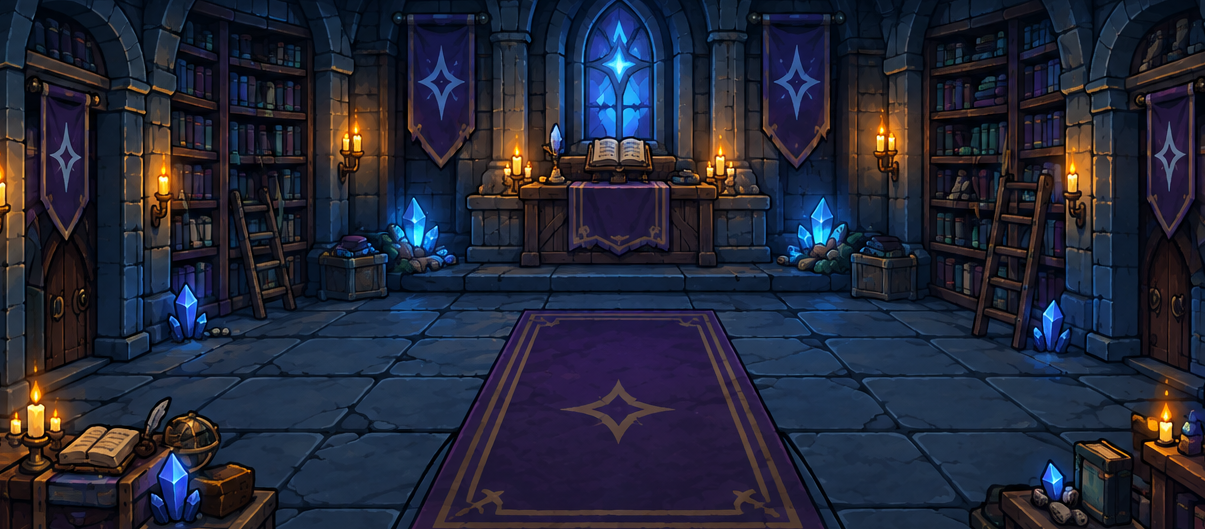
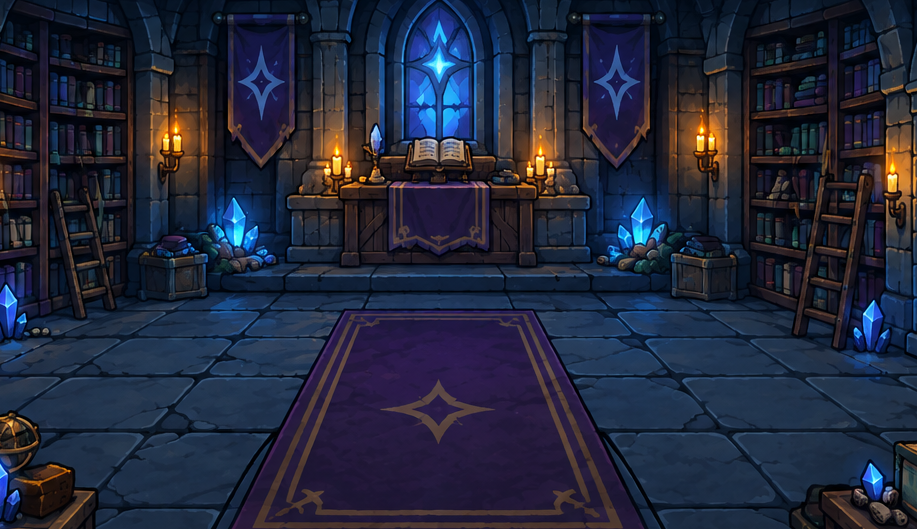
Implemented fifth dungeon changed a few cards powers started to balance the lower dungeons and starting sets

diff --git a/DungeonCrawler/enemies.py b/DungeonCrawler/enemies.py
@@ -94,48 +94,52 @@ class enemy:
 
 class Goblin(enemy):
     def __init__(self):
-        super().__init__("Goblin", "A small, green, mischievous creature.", 3, [Cards.Knife(), Cards.LightAxe(), Cards.Nothing()], "Orc's dungeon", 1)
+        super().__init__("Goblin", "A small, green, mischievous creature.", 3, [Cards.Nothing(), Cards.LightAxe(), Cards.Nothing()], "Orc's dungeon", 1)
 
 class Orc(enemy):
     def __init__(self):
-        super().__init__("Orc", "Grey mischievous creature.", 4, [Cards.Dagger(), Cards.ShoulderPlate(), Cards.LightAxe()], "Orc's dungeon", 2)
+        super().__init__("Orc", "Grey mischievous creature.", 4, [Cards.Nothing(), Cards.Helmet(), Cards.LightAxe()], "Orc's dungeon", 2)
 
 class ArmoredOrc(enemy):
     def __init__(self):
-        super().__init__("Armored Orc", "A grey orc with a chainmail.", 4, [Cards.Sword(), Cards.LightAxe(), Cards.ChainMail()], "Orc's dungeon", 3)
+        super().__init__("Armored Orc", "A grey orc with a chainmail.", 5, [Cards.Sword(), Cards.Knife(), Cards.ChainMail()], "Orc's dungeon", 3)
 
 class Ogre(enemy):
     def __init__(self):
         super().__init__("Ogre", "Huge green furry mischievous creature.", 6, [Cards.Club(), Cards.Nothing(), Cards.Nothing()], "Orc's dungeon", 4)
         self.lootTable = [Cards.Club(), Cards.Club(), Cards.Nothing()]
-        self.lootChance = 1
 
 
 class OrcWizard(enemy):
     def __init__(self):
-        super().__init__("Orc Wizard", "A powerful mystical creature.", 5, [Cards.Spear(), Cards.ChainMail(), Cards.MagicHat()], "Orc's dungeon", 5)
+        super().__init__("Orc Wizard", "A powerful mystical creature.", 8, [Cards.Spear(), Cards.ChainMail(), Cards.MagicHat()], "Orc's dungeon", 5)
         self.lootTable = [Cards.MagicHat(), Cards.MagicHat(), Cards.MagicHat()]
         self.lootChance = 1
 
+
+
 class Slime(enemy):
         def __init__(self):
-            super().__init__("slime", "A goo that seems to be agresive", 3, [Cards.LightAxe(), Cards.Arrow(), Cards.Nothing()], "Misty dungeon", 1)
-
-class Skeleton(enemy):
-        def __init__(self):
-            super().__init__("Skeleton", "Archer that looks like death", 4, [Cards.Bow(), Cards.Arrow(), Cards.Nothing()], "Misty dungeon", 2)
+            super().__init__("slime", "A goo that seems to be agresive", 3, [Cards.Boomerang(), Cards.Arrow(), Cards.Nothing()], "Misty dungeon", 1)
 
 class DarkCreature(enemy):
         def __init__(self):
-            super().__init__("DarkCreature", "Gives nightmares if you look too much at him", 5, [Cards.Halbard(), Cards.ShoulderPlate(), Cards.ChainMail()], "Misty dungeon", 3)
+            super().__init__("DarkCreature", "Gives nightmares if you look too much at him", 4, [Cards.Sword(), Cards.Knife(), Cards.Nothing()], "Misty dungeon", 2)
+
+class Skeleton(enemy):
+        def __init__(self):
+            super().__init__("Skeleton", "Archer that looks like death", 5, [Cards.Bow(), Cards.Arrow(), Cards.Nothing()], "Misty dungeon", 3)
 
 class Ghoul(enemy):
         def __init__(self):
-            super().__init__("Ghoul", "Very dangerous spirit", 5, [Cards.Spear(), Cards.LightAxe(), Cards.Shield()], "Misty dungeon", 4)
+            super().__init__("Ghoul", "Very dangerous spirit", 6, [Cards.Spear(), Cards.LightAxe(), Cards.Shield()], "Misty dungeon", 4)
 
 class MistyGhost(enemy):
         def __init__(self):
             super().__init__("MistyGhost", "Agressive spirit of this dungeon", 7, [Cards.HealingAmulet(), Cards.Crown(), Cards.LongSword()], "Misty dungeon", 5)
+            self.lootTable = [Cards.HealingAmulet(), Cards.HealingAmulet(), Cards.HealingAmulet()]
+            self.lootChance = 1
+
 
 
 
@@ -152,8 +156,8 @@ class DemonicEye(enemy):
         def __init__(self):
             super().__init__("Demonic eye", 
                              "Lewitating evil eye", 
-                             6, 
-                             [Cards.MagicEye(), Cards.SpellShield(), Cards.ShoulderPlate()], 
+                             4, 
+                             [Cards.MagicEye(), Cards.SpellShield(), Cards.Nothing()], 
                              "Library dungeon", 
                              2)
 
@@ -171,7 +175,7 @@ class TrophyHunter(enemy):
         def __init__(self):
             super().__init__("Trophy hunter", 
                              "Try-hard, willing to do a lot for gold", 
-                             7, 
+                             6, 
                              [Cards.SpellBook(), Cards.LongSword(), Cards.Boomerang()], 
                              "Library dungeon", 
                              4)
@@ -190,12 +194,15 @@ class ArcaneGuardian(enemy):
             self.lootChance = 1
 
 
+
+
+
 class Gremlin(enemy):
         def __init__(self):
             super().__init__("Gremlin", 
                              "Small but grevious creature", 
                              4, 
-                             [Cards.Nothing(), Cards.KnifePack(), Cards.Knife()], 
+                             [Cards.LightAxe(), Cards.KnifePack(), Cards.Knife()], 
                              "Forest dungeon", 
                              1)
 
@@ -222,7 +229,7 @@ class TreeOfLife(enemy):
             super().__init__("Tree of life", 
                              "Huge tree pulsating with magic", 
                              12, 
-                             [Cards.FishingRod(), Cards.GasBubble(), Cards.Spear()], 
+                             [Cards.Nothing(), Cards.GasBubble(), Cards.Halbard()], 
                              "Forest dungeon", 
                              4)
             self.lootTable = [Cards.GasBubble(), Cards.GasBubble(), Cards.Nothing()]
@@ -234,8 +241,57 @@ class ForestSpirit(enemy):
             super().__init__("Forest Spirit", 
                              "Born from nature to rule the forest", 
                              10, 
-                             [Cards.RitualKnife(), Cards.MagicMirror(), Cards.RitualKnife()], 
+                             [Cards.LongSword(), Cards.MagicMirror(), Cards.FishingRod()], 
                              "Forest dungeon", 
                              4)
             self.lootTable = [Cards.MagicMirror(), Cards.MagicMirror(), Cards.MagicMirror()]
             self.lootChance = 1
+
+
+class LavaLarva(enemy):
+        def __init__(self):
+            super().__init__("Lava Larva", 
+                             "Hot as hell", 
+                             3, 
+                             [Cards.Fire(), Cards.Nothing(), Cards.Fireball()], 
+                             "Hell dungeon", 
+                             1)
+
+class LavaGolem(enemy):
+        def __init__(self):
+            super().__init__("lava golem", 
+                             "Mindless mass of magma", 
+                             6, 
+                             [Cards.Fireball(), Cards.Nothing(), Cards.Boomerang()], 
+                             "Hell dungeon", 
+                             2)
+
+class FirerySpirit(enemy):
+        def __init__(self):
+            super().__init__("firery spirit", 
+                             "Burning flame in humanoid form", 
+                             5, 
+                             [Cards.FirerySword(), Cards.Nothing(), Cards.SpellShield()], 
+                             "Hell dungeon", 
+                             3)
+
+class Demon(enemy):
+        def __init__(self):
+            super().__init__("demon", 
+                             "Hellish creature with dangerous aspirations", 
+                             5, 
+                             [Cards.Halbard(), Cards.DevilHorns(), Cards.Fire()], 
+                             "Hell dungeon", 
+                             4)
+
+class Demon(enemy):
+        def __init__(self):
+            super().__init__("satan", 
+                             "Hellish creature with dangerous aspirations", 
+                             7, 
+                             [Cards.Trident(), Cards.DevilHorns(), Cards.Fire()], 
+                             "Hell dungeon", 
+                             5)
+
+
+

diff --git a/DungeonCrawler/DungeonLoader.py b/DungeonCrawler/DungeonLoader.py
@@ -7,40 +7,35 @@ import Cards
 import random
 import Trap
 
-def DefineEasyDungeon(player):
+def DefineEasyDungeon():
     # Define a low level dungeon
     D1 = dungeons.dungeon("Orc's dungeon", "Dungeon with some green and grey creatures", [enemies.Goblin(), enemies.Orc(), enemies.ArmoredOrc(), enemies.Ogre(), enemies.OrcWizard()], [Trap.KnifeTrap(), Trap.ArrowTrap()])
-    D2 = dungeons.dungeon("Misty's dungeon", "Dungeon with some slimes and undead creatures", [enemies.Slime(), enemies.Skeleton(), enemies.DarkCreature(), enemies.Ghoul(), enemies.MistyGhost()], [Trap.KnifeTrap(), Trap.ArrowTrap()])
+    D2 = dungeons.dungeon("Misty's dungeon", "Dungeon with some slimes and undead creatures", [enemies.Slime(), enemies.DarkCreature(), enemies.Skeleton(), enemies.Ghoul(), enemies.MistyGhost()], [Trap.KnifeTrap(), Trap.ArrowTrap()])
 
 
     Dungeons=[D1, D2]
     
     random.shuffle(Dungeons)
 
-    D3 = dungeons.dungeon("Library dungeon", "Dungeon with books and magic with undead and magical creatures", 
-                          [enemies.Librarian(), enemies.DemonicEye(), enemies.ThreeEyedBeast(), enemies.TrophyHunter(), enemies.ArcaneGuardian()], 
-                          [Trap.FireTrap(), Trap.HalbardTrap(), Trap.ArrowTrap(), Trap.DestroyItem()])
-
-    D4 = dungeons.dungeon("Forest dungeon", "Dungeon with full of fungi, ents and gremlins", 
-                          [enemies.Gremlin(), enemies.Fungis(), enemies.Ent(), enemies.TreeOfLife(), enemies.ForestSpirit()], 
-                          [Trap.GasTrap(), Trap.GasBubbleTrap(), Trap.ClubTrap(), Trap.DestroyItem()])
-
-    if random.randint(0,1)==1:
-        Dungeons.append(D4)
-        Dungeons.append(D3)
-    else:
-        Dungeons.append(D3)
-        Dungeons.append(D4)
-
-
-    Dungeons = Dungeons
 
     return Dungeons
 
 
 def DefineMediumDungeon():
-    # Define a medium level dungeon
-    pass
+    # Define a low level dungeon
+    D1 = dungeons.dungeon("Library dungeon", "Dungeon with books and magic with undead and magical creatures", 
+                          [enemies.Librarian(), enemies.DemonicEye(), enemies.ThreeEyedBeast(), enemies.TrophyHunter(), enemies.ArcaneGuardian()], 
+                          [Trap.FireTrap(), Trap.HalbardTrap(), Trap.ArrowTrap(), Trap.DestroyItem()])
+    D2 = dungeons.dungeon("Forest dungeon", "Dungeon with full of fungi, ents and gremlins", 
+                          [enemies.Gremlin(), enemies.Fungis(), enemies.Ent(), enemies.TreeOfLife(), enemies.ForestSpirit()], 
+                          [Trap.GasTrap(), Trap.GasBubbleTrap(), Trap.ClubTrap(), Trap.DestroyItem()])
+
+
+    Dungeons=[D1, D2]
+    
+    random.shuffle(Dungeons)
+
+    return Dungeons
 
 def DefineHardDungeon():
     # Define a hard level dungeon
@@ -53,7 +48,8 @@ def LoadDungeon(screen, player):
     Dungeons = []
     if player.curD=="":
         if player.DungeonLevel <6:
-            Dungeons.append(DefineEasyDungeon(player))
+            Dungeons.append(DefineEasyDungeon())
+            Dungeons.append(DefineMediumDungeon())
         elif player.DungeonLevel == 6:
             pass
    

diff --git a/DungeonCrawler/SetPicker.py b/DungeonCrawler/SetPicker.py
@@ -8,9 +8,9 @@ def ChooseSet(screen, player1):
     scale = SettingHelp.get_scale()
 
     # Create buttons for the set picker
-    set1Button = button.Button(720*scale, 300*scale, 550*scale, 160*scale, "SwordMan", (0, 0, 128), (0, 255, 0))
-    set2Button = button.Button(720*scale, 500*scale, 550*scale, 160*scale, "King of Halbard", (0, 0, 128), (0, 255, 0))
-    set3Button = button.Button(720*scale, 700*scale, 550*scale, 160*scale, "Spearman", (0, 0, 128), (0, 255, 0))
+    set1Button = button.Button(720*scale, 300*scale, 550*scale, 160*scale, "Lumberjack", (0, 0, 128), (0, 255, 0))
+    set2Button = button.Button(720*scale, 500*scale, 550*scale, 160*scale, "Duelist", (0, 0, 128), (0, 255, 0))
+    set3Button = button.Button(720*scale, 700*scale, 550*scale, 160*scale, "Rouge", (0, 0, 128), (0, 255, 0))
 
     # Main loop for the set picker
     #set 1 - longsword
@@ -31,14 +31,14 @@ def ChooseSet(screen, player1):
             # Check button clicks
             if event.type == pygame.MOUSEBUTTONDOWN:
                 if set1Button.is_clicked(mouse_pos, event):
-                    player1.addItem(Cards.PoisonousGas())
-                    player1.addItem(Cards.KnifePack())
+                    player1.addItem(Cards.LightAxe())
+                    player1.addItem(Cards.Helmet())
                     running = False
                 elif set2Button.is_clicked(mouse_pos, event):
-                    player1.addItem(Cards.SwordOfDarkness())
+                    player1.addItem(Cards.Sword())
                     running = False
                 elif set3Button.is_clicked(mouse_pos, event):
-                    player1.addItem(Cards.Spear())
+                    player1.addItem(Cards.Dagger())
                     player1.addItem(Cards.Boomerang())
                     running = False
 

diff --git a/DungeonCrawler/Cards.py b/DungeonCrawler/Cards.py
@@ -250,7 +250,8 @@ class HealingAmulet(Card):
         else:
             player.heal(1)
     def defend(self, oc, player, enemy):
-        self.trick(oc, player, enemy)        
+        self.trick(oc, player, enemy)
+        return oc.Aval
     def trick(self, oc, player, enemy):
         self.disarmed_rounds=-1 # -1 means it will be removed FOREVER from hand being hit
 
@@ -389,7 +390,7 @@ class HealingPotion(Card):
 
 class Sword(Card):
     def __init__(self):
-        super().__init__("Sword", "Heavy", 3, "'H': 5, ATK: 1, DEF: L1, H0", 1, 1, 0, 0, 0)
+        super().__init__("Sword", "Heavy", 3, "'H': 3, ATK: 1, DEF: L1, H0", 1, 1, 0, 0, 0)
     def attack(self, oc, player, enemy):
         dmg = oc.defend(self, player, enemy)
         enemy.take_damage(dmg)
@@ -472,7 +473,7 @@ class RitualKnife(Card):
 
 class KnifePack(Card):
     def __init__(self):
-        super().__init__("Knife Pack", "Light", 2, "ATK: 0, DEF: L1, H0",0.1,1,0.5,0,6) 
+        super().__init__("Knife Pack", "Light", 3, "ATK: 0, DEF: L1, H0",0.1,1,0.5,0,6) 
 
     def attack(self, oc, player, enemy):
         self.trick(oc, player, enemy)
@@ -565,7 +566,7 @@ class DevilHorns(Card):
 
 class Trident(Card):
     def __init__(self):
-        super().__init__("Trident", "Light", 6, "'L': 5, DEF: 1", 2, 0, 1, 0, 0)
+        super().__init__("Trident", "Light", 5, "'L': 5, DEF: 1", 2, 0.5, 1, 0, 0)
     def attack(self, oc, player, enemy):
         dmg = oc.defend(self, player, enemy)
         enemy.take_damage(dmg)
@@ -573,7 +574,7 @@ class Trident(Card):
         if oc.card_type=="Heavy":
             return 0
         else:
-            return oc.Aval
+            return halved(oc.Aval)
 
 class SwordOfDarkness(Card):
     def __init__(self):

diff --git a/DungeonCrawler/player.py b/DungeonCrawler/player.py
@@ -19,7 +19,7 @@ class Player:
         self.et = "p"
         self.DungeonLevel = 0
         self.AdvLevel = 0
-        self.gold = 15
+        self.gold = 0
         scale = SettingHelp.get_scale()
         self.font  = pygame.font.SysFont("Arial", int(48 * scale))
         self.gold_text = self.font.render("Gold: "+str(self.gold), True, (255, 255, 255))
@@ -141,14 +141,13 @@ class Player:
 
     def ascend(self):
 
-        #game is blocking on 14
         self.level += 1
         print(self.level)
         if self.level==15:
             self.level=0
             self.curD = ""
             self.DungeonLevel += 1
-            if self.DungeonLevel==5:
+            if self.DungeonLevel==2:
                 self.DungeonLevel=0
                 self.AdvLevel += 1
                 if self.AdvLevel==3:
@@ -438,7 +437,7 @@ class Player:
 
     def _hand_is_valid(self, hand_cards):
         total_weight = sum(c.weight for c in hand_cards if c.name != "Nothing")
-        heavy_count = sum(1 for c in hand_cards if c.card_type == "heavy")
+        heavy_count = sum(1 for c in hand_cards if c.card_type == "Heavy")
         return total_weight <= self.maxweight and heavy_count <= 1
 
     def handle_hand_reorder_click(self, mouse_pos, event):

diff --git a/DungeonCrawler/GameLoop.py b/DungeonCrawler/GameLoop.py
@@ -19,6 +19,9 @@ def GameLoop(screen, player1):
     GoForward = button.Button(800*scale, 150*scale, 300*scale, 200*scale, "Forward", (0, 0, 128), (0, 255, 0))
     GoRight = button.Button(1500*scale, 500*scale, 300*scale, 200*scale, "Right", (0, 0, 128), (0, 255, 0))
 
+
+    dungeons = LoadDungeon(screen, player1)
+
     State = "Free"
     #States 
     # Free - free to go
@@ -30,16 +33,15 @@ def GameLoop(screen, player1):
 
     backgroundImg = None
 
-    dungeons = None
-
     running = True
     while running:
         mouse_pos = pygame.mouse.get_pos()
 
         if player1.curD=="":
-            dungeons = LoadDungeon(screen, player1)
+
             player1.curD=dungeons[player1.AdvLevel][player1.DungeonLevel].name
             backgroundImg = pygame.image.load(dungeons[player1.AdvLevel][player1.DungeonLevel].background).convert()
+            backgroundImg = pygame.transform.scale(backgroundImg, (1920*scale, 1080*scale))
             '''
             dungeons - array of an arrays of dungeons so dungeons[0] is an array of EASY dungeons and dungeons[0][0] is first dungeon
             '''
